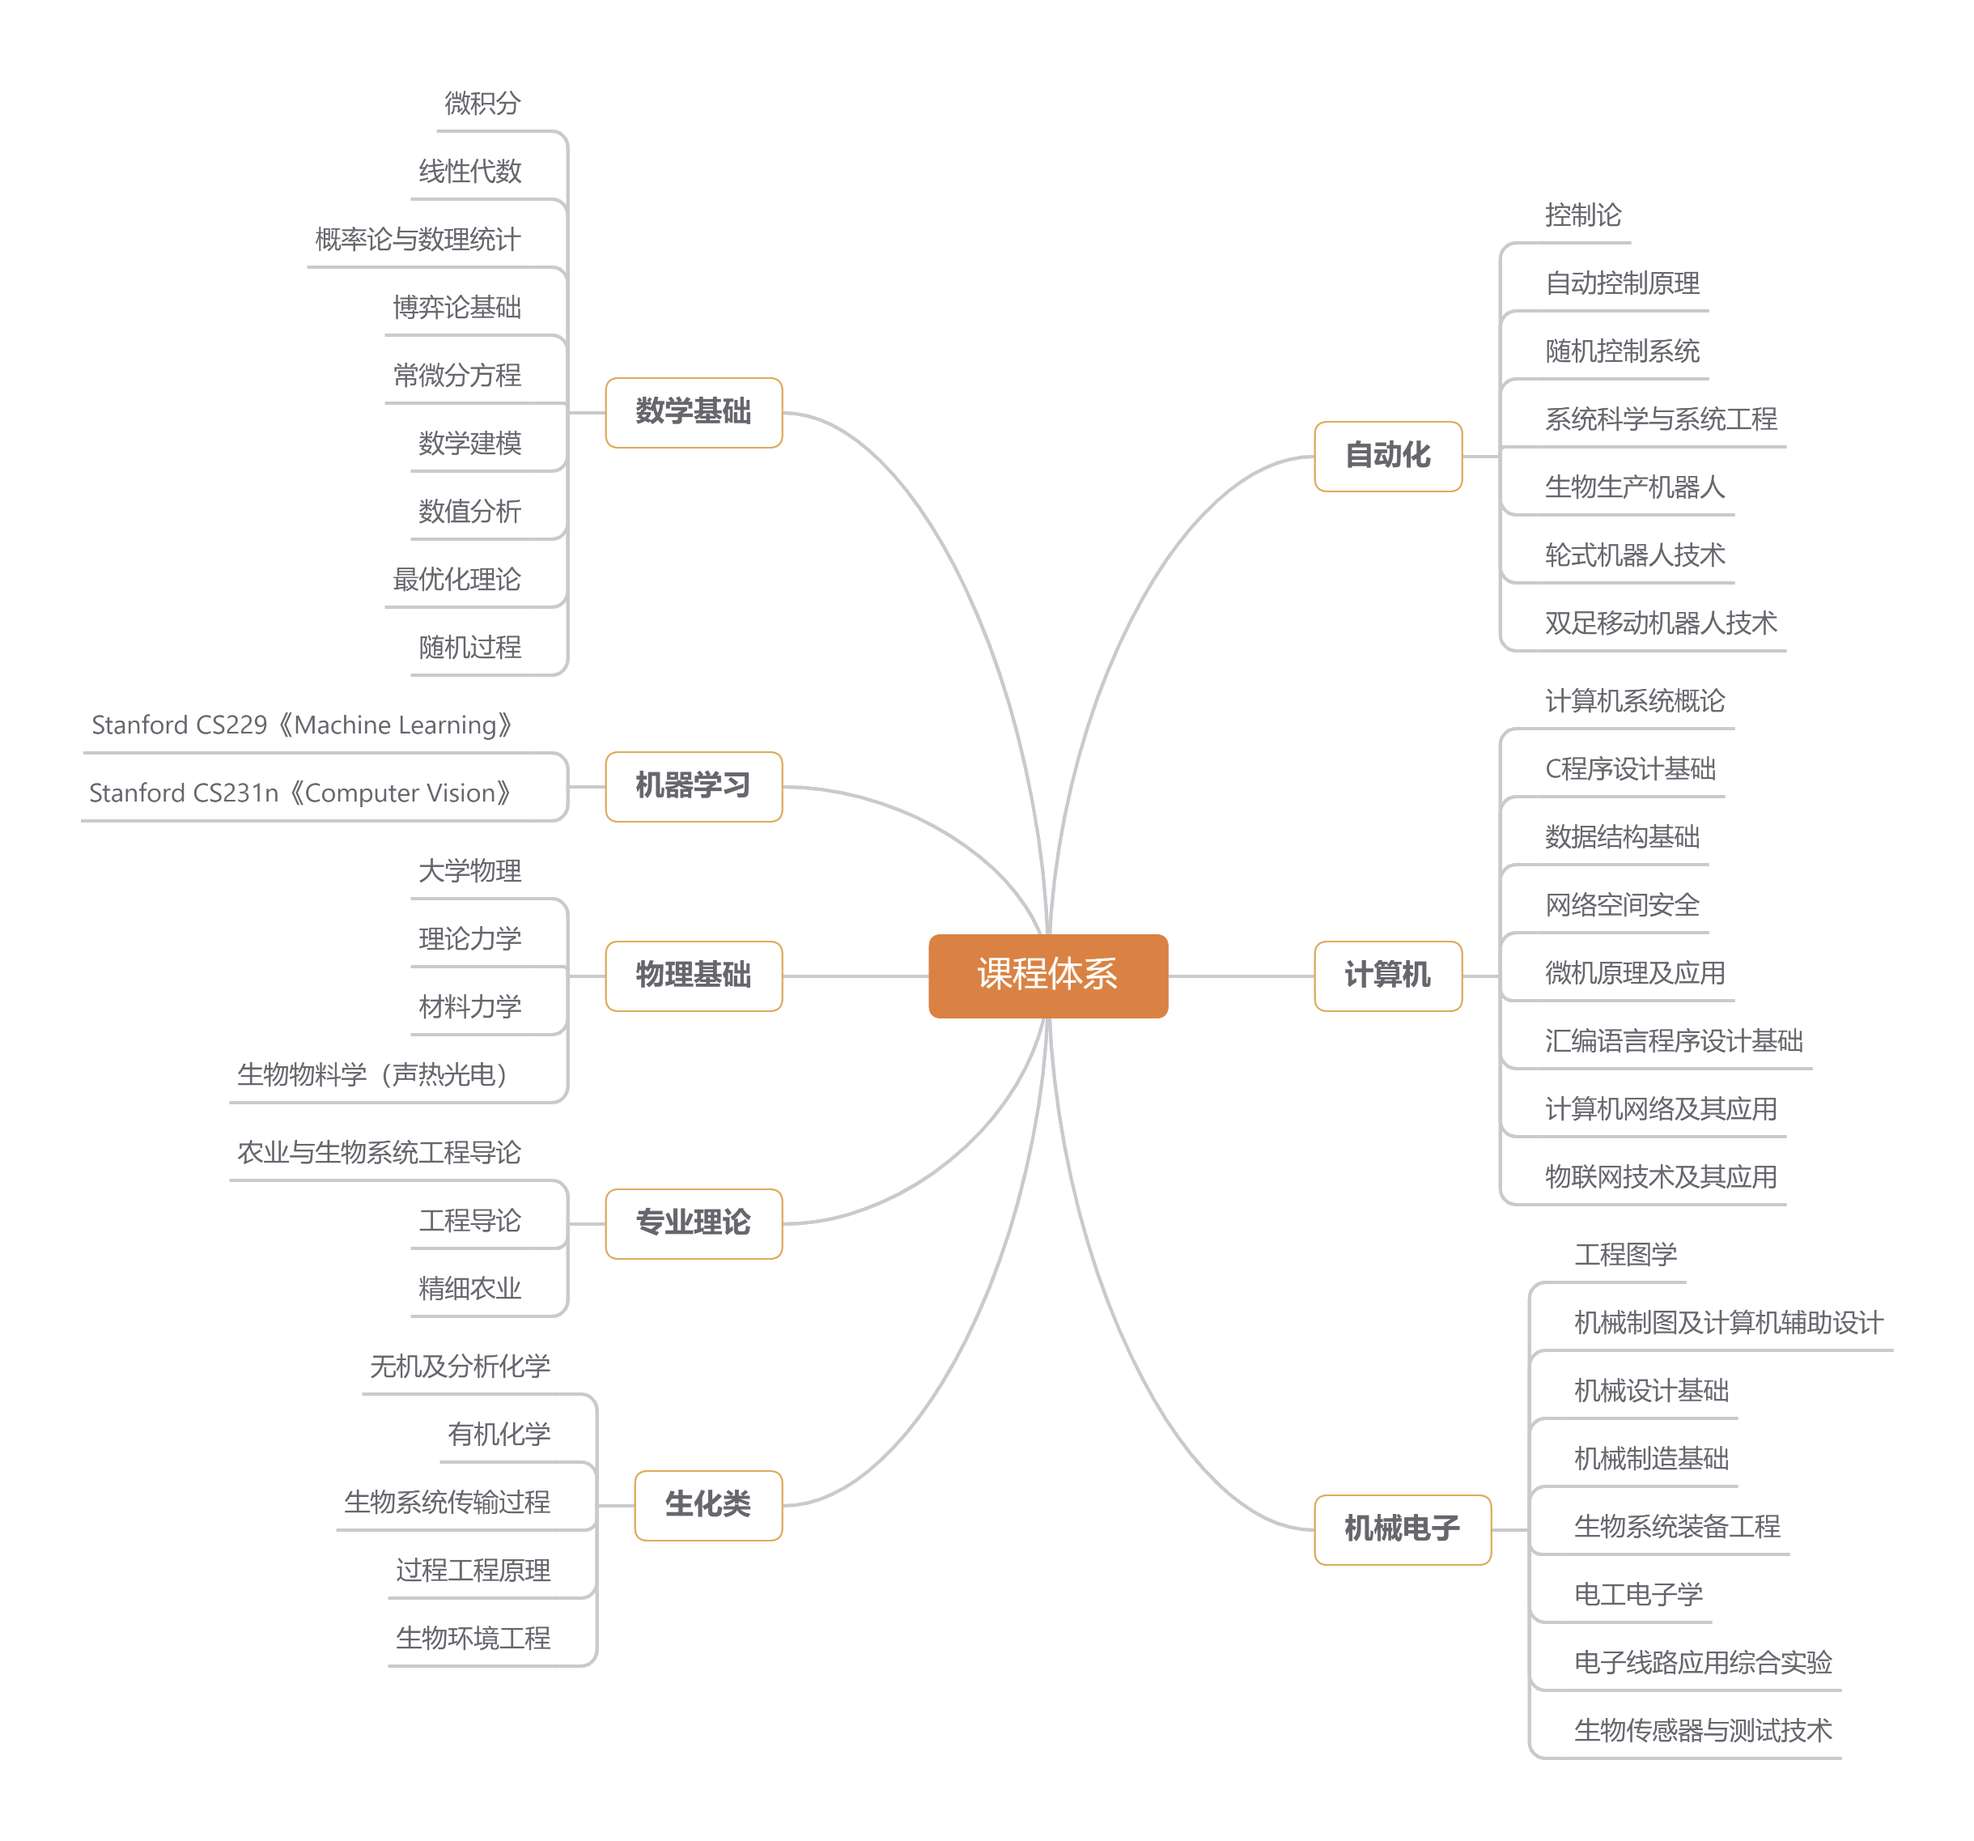
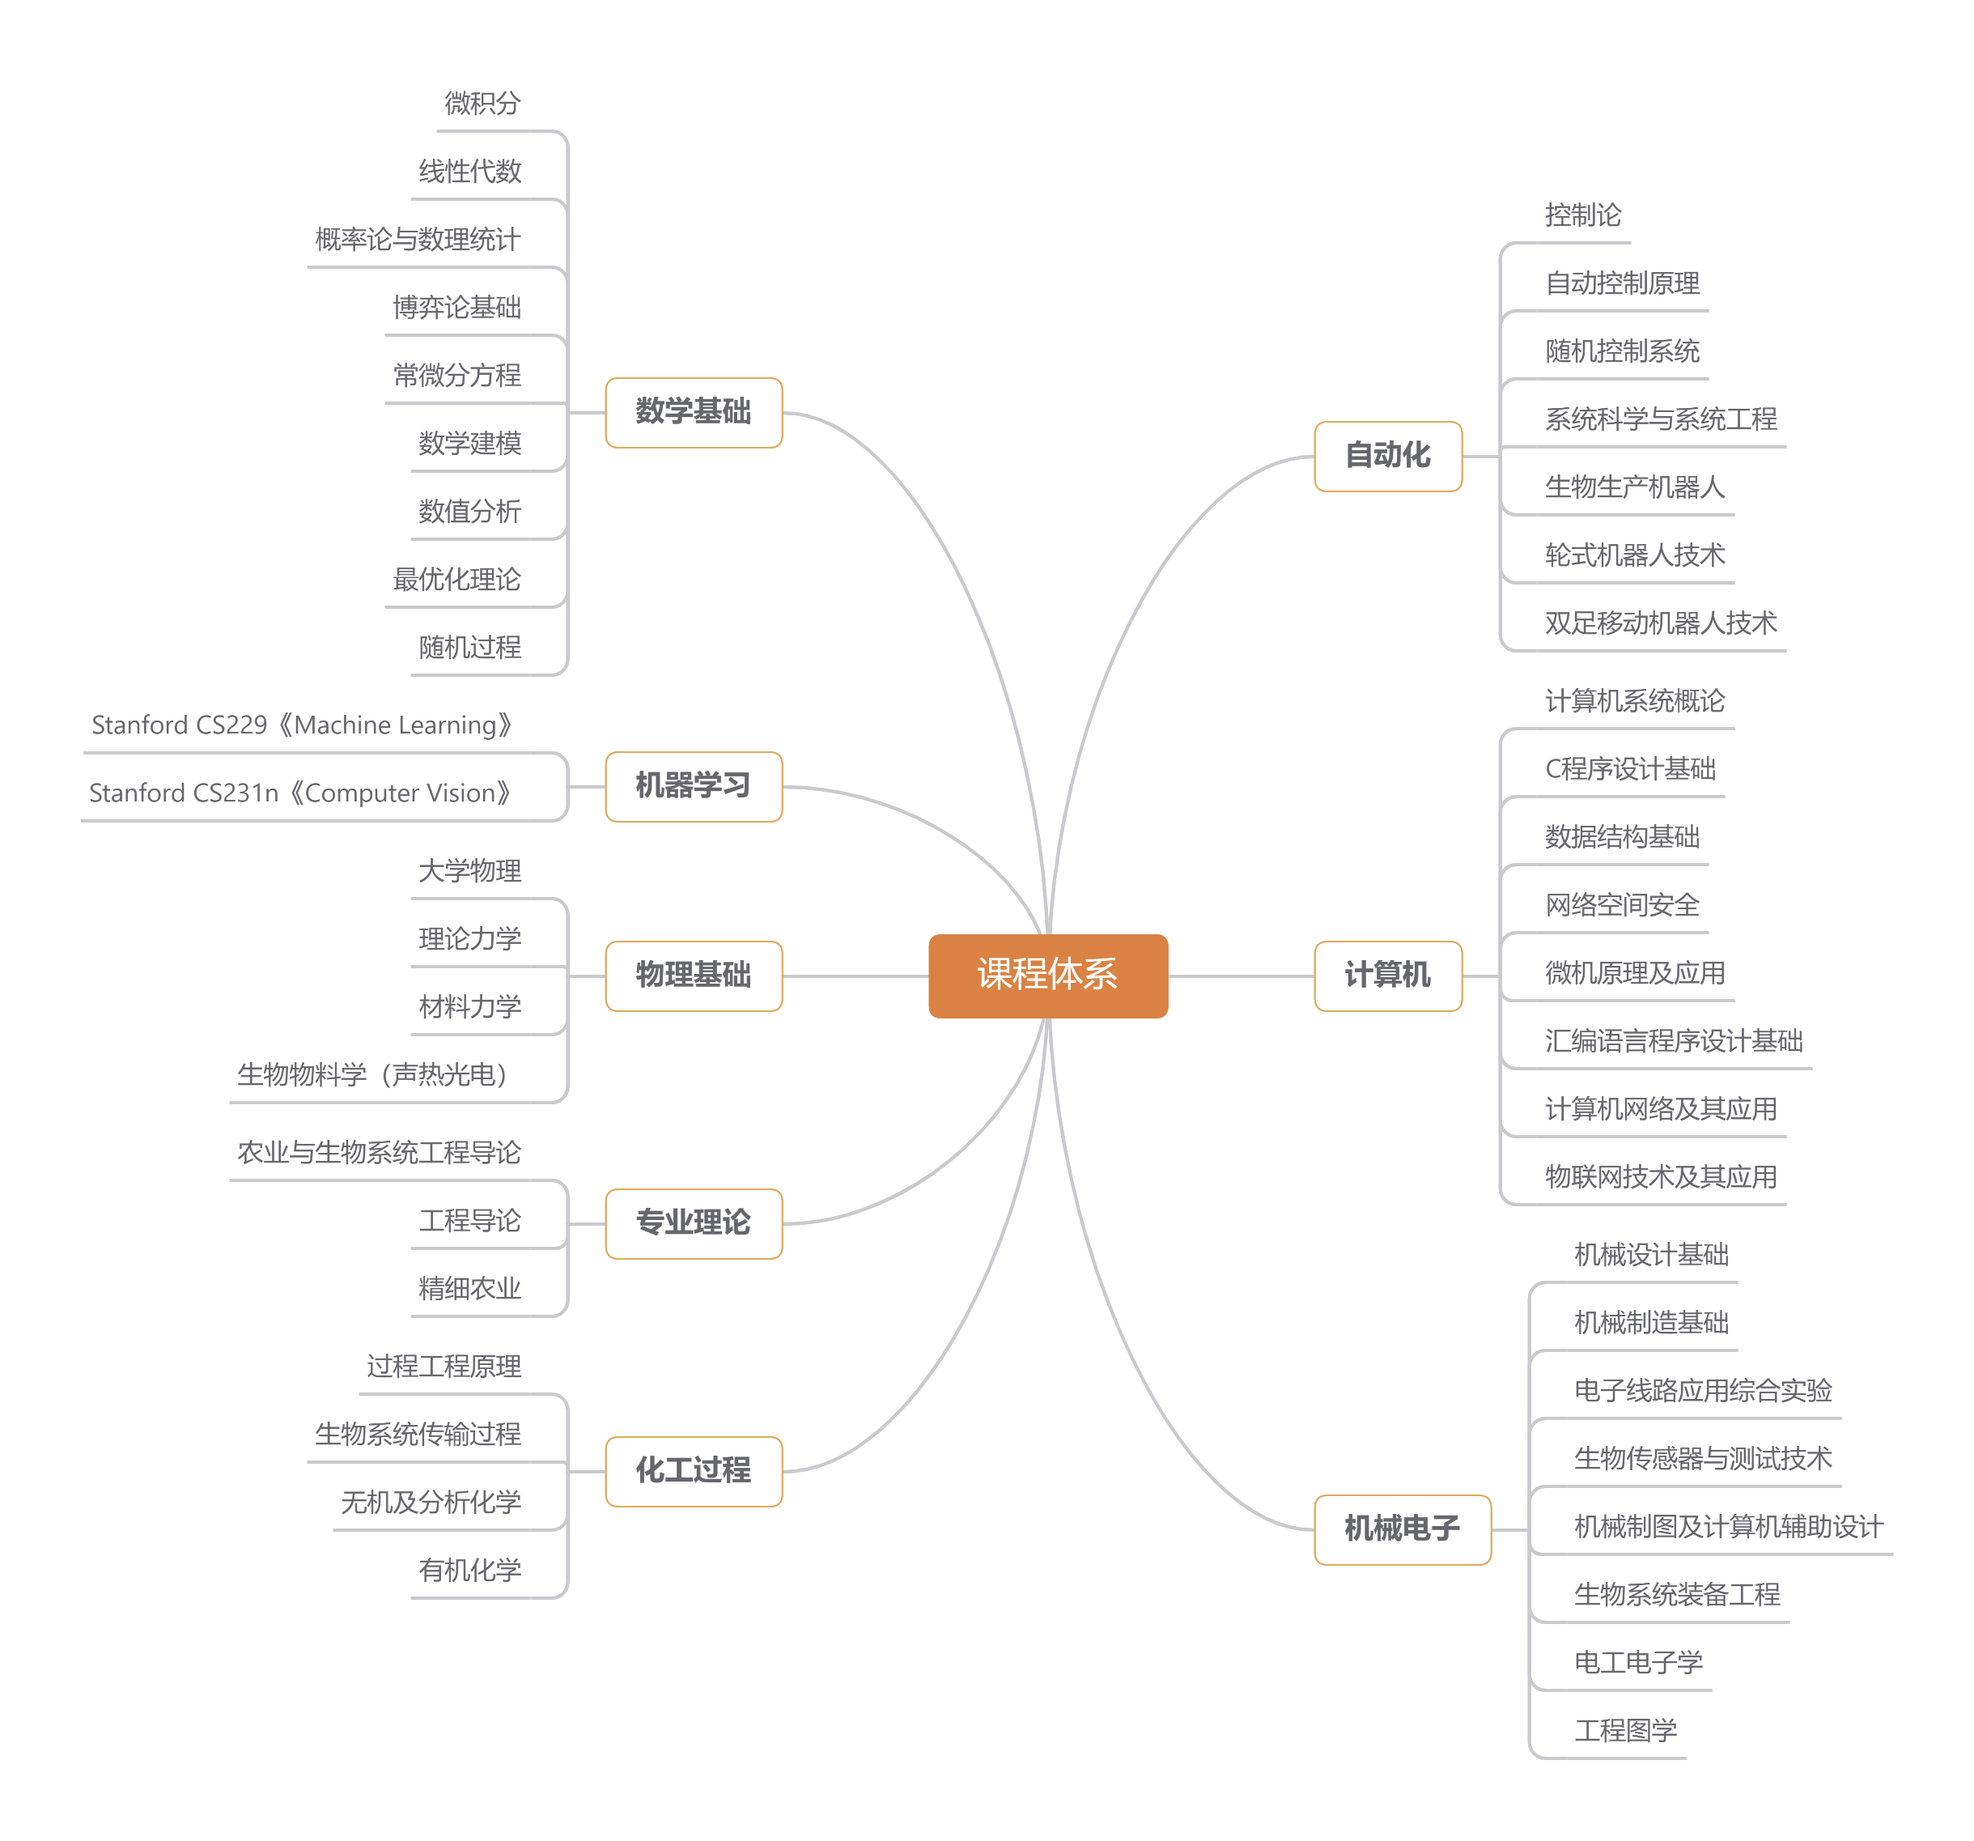
content

diff --git a/content/home/network.md b/content/home/network.md
@@ -8,7 +8,9 @@ subtitle:
 
 ---
 
-I have earned 193.5 credits, 30 credits beyond my graduation requirement. The mind map below shows my curriculum structure, which I think may let you know more about my professional skills and personal interests.
+I have earned 193.5 credits, 30+ credits beyond my graduation requirement. Figure 1 and Figure 2 below shows my curriculum structure and standard curriculum structure of my major, which I think may bring you more information about my professional skills, self-development plans and personal interests.
 
-{{< figure src="major3.png" caption="Fig. Curriculum Structure"  align="center">}}
+{{< figure src="major3.png" caption="Figure 1. My Curriculum Structure"  align="center">}}
+
+{{< figure src="major4.png" caption="Figure 2. Biosystems"  align="center">}}
 
